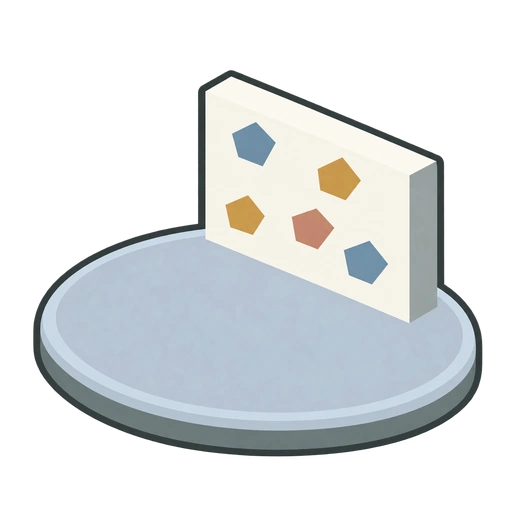
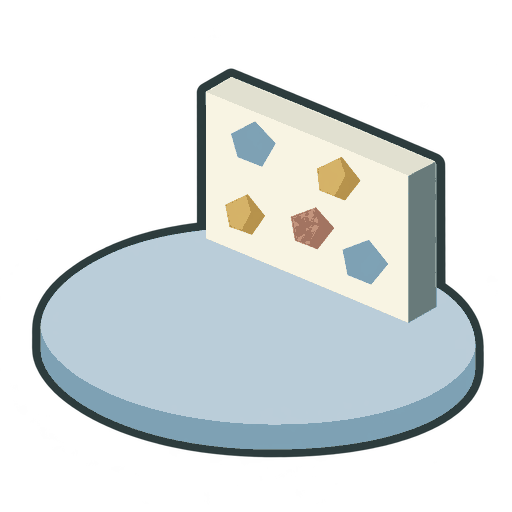
Flatten map artwork to light-dark palette pairs and outline white stage numbers

diff --git a/js/map-art.js b/js/map-art.js
@@ -1,6 +1,7 @@
 "use strict";
 // Approved raster artwork; mirror the art only, keeping the live stage number upright.
-const MAP_ICON_ASSETS={"active-100":{"width":512,"height":512,"renderWidth":73.306,"renderHeight":73.306,"left":-5.011,"top":-15.209},"active-125":{"width":512,"height":512,"renderWidth":72.98,"renderHeight":72.98,"left":-4.704,"top":-18.624},"active-150":{"width":512,"height":512,"renderWidth":76.028,"renderHeight":76.028,"left":-6.088,"top":-23.572},"cleared-100":{"width":512,"height":512,"renderWidth":73.143,"renderHeight":73.143,"left":-4.857,"top":-15.206},"cleared-125":{"width":512,"height":512,"renderWidth":74.642,"renderHeight":74.642,"left":-5.54,"top":-21.355},"unplayed-100":{"width":512,"height":512,"renderWidth":72.98,"renderHeight":72.98,"left":-4.704,"top":-14.918},"unplayed-125":{"width":512,"height":512,"renderWidth":74.813,"renderHeight":74.813,"left":-5.553,"top":-20.349},"unplayed-150":{"width":512,"height":512,"renderWidth":76.92,"renderHeight":76.92,"left":-6.61,"top":-24.737},"cleared-150":{"width":512,"height":512,"renderWidth":77.649,"renderHeight":77.649,"left":-7.28,"top":-23.929}};
+const MAP_ART_VERSION='two-tone-v1';
+const MAP_ICON_ASSETS={"active-100":{"width":512,"height":512,"renderWidth":72.818,"renderHeight":72.818,"left":-4.693,"top":-14.916},"active-125":{"width":512,"height":512,"renderWidth":72.656,"renderHeight":72.656,"left":-4.541,"top":-18.603},"active-150":{"width":512,"height":512,"renderWidth":75.502,"renderHeight":75.502,"left":-5.751,"top":-23.358},"cleared-100":{"width":512,"height":512,"renderWidth":72.496,"renderHeight":72.496,"left":-4.531,"top":-14.77},"cleared-125":{"width":512,"height":512,"renderWidth":74.136,"renderHeight":74.136,"left":-5.213,"top":-21.015},"cleared-150":{"width":512,"height":512,"renderWidth":77.283,"renderHeight":77.283,"left":-7.094,"top":-24.033},"unplayed-100":{"width":512,"height":512,"renderWidth":72.496,"renderHeight":72.496,"left":-4.531,"top":-14.628},"unplayed-125":{"width":512,"height":512,"renderWidth":74.473,"renderHeight":74.473,"left":-5.382,"top":-20.32},"unplayed-150":{"width":512,"height":512,"renderWidth":76.561,"renderHeight":76.561,"left":-6.28,"top":-24.238}};
 function mapStageVariant(n) {
     const index=(n-1)%6;
     return {height:['100','125','150'][Math.floor(index/2)],mirrored:index%2===1};
@@ -11,7 +12,7 @@ function mapWallMarkup(n,status='active') {
     if(!asset)return '';
     return `<span class="map-wall" data-variant="${variant.height}-${variant.mirrored?'right':'left'}" data-status="${status}" aria-hidden="true">
         <span class="map-icon-art"${variant.mirrored?' style="transform:scaleX(-1)"':''}>
-            <img class="map-icon-image" src="assets/stage-icons/${key}.webp" alt="" draggable="false" width="${asset.width}" height="${asset.height}" style="width:${asset.renderWidth}px;height:${asset.renderHeight}px;left:${asset.left}px;top:${asset.top}px">
+            <img class="map-icon-image" src="assets/stage-icons/${key}.webp?v=${MAP_ART_VERSION}" alt="" draggable="false" width="${asset.width}" height="${asset.height}" style="width:${asset.renderWidth}px;height:${asset.renderHeight}px;left:${asset.left}px;top:${asset.top}px">
         </span>
         <span class="map-node-number" style="font-size:${n<1000?18:14}px">${n}</span>
     </span>`;
@@ -37,7 +38,7 @@ function mapSceneryMarkup() {
     const width=ui.mapTrack.clientWidth||400;
     const imageHeight=width*MAP_IMAGE_HEIGHT/MAP_IMAGE_WIDTH;
     // Extend the image edges behind controls without duplicating stage clearings.
-    return `<defs><image id="map-artwork" href="assets/stage-map.webp" x="0" y="0" width="400" height="${imageHeight}" preserveAspectRatio="none"/></defs>
+    return `<defs><image id="map-artwork" href="assets/stage-map.webp?v=${MAP_ART_VERSION}" x="0" y="0" width="400" height="${imageHeight}" preserveAspectRatio="none"/></defs>
         <use href="#map-artwork" transform="translate(0 ${MAP_EDGE_SPACE}) scale(1 -4)"/>
         <use href="#map-artwork" transform="translate(0 ${MAP_EDGE_SPACE+imageHeight*2}) scale(1 -1)"/>
         <use href="#map-artwork" transform="translate(0 ${MAP_EDGE_SPACE})"/>`;

diff --git a/styles.css b/styles.css
@@ -127,7 +127,7 @@ button:disabled { opacity: .45; cursor: default; }
 .map-wall { position:absolute; inset:0; display:block; width:64px; height:72px; pointer-events:none; }
 .map-icon-art { position:absolute; inset:0; transform-origin:50% 50%; }
 .map-icon-image { position:absolute; max-width:none; object-fit:fill; }
-.map-wall .map-node-number { position:absolute; left:50%; top:50%; transform:translate(-50%,-50%); color:#294339; font-weight:800; line-height:1; letter-spacing:0; text-shadow:0 1px 1px #ffffff50; }
+.map-wall .map-node-number { position:absolute; left:50%; top:50%; transform:translate(-50%,-50%); color:#fff; -webkit-text-stroke:2px #000; paint-order:stroke fill; font-weight:800; line-height:1; letter-spacing:0; text-shadow:none; }
 .map-node small { display:none; position:absolute; top:64px; left:0; right:0; font-size:9px; line-height:12px; color:#475e52; }
 .map-node:disabled { opacity:1; }
 .map-node:disabled:hover { filter:none; }

diff --git a/assets/stage-icons/README.md b/assets/stage-icons/README.md
@@ -5,10 +5,18 @@ The approved rounded-mat climbing icon is supplied as transparent WebP artwork.
 - `active-*`: gold mat; `cleared-*`: sage mat; `unplayed-*`: gray-blue mat.
 - Suffixes `100`, `125`, `150` identify wall height variants.
 - The six forms combine these three heights with CSS horizontal mirroring.
-- Stage numbers are upright DOM text, outside the mirrored artwork.
+- Stage numbers are upright white DOM text with a black outline, outside the mirrored artwork.
 - Image placement uses alpha bounds to align mat size and floor position across variants.
 
 Created with the built-in image generation tool from the approved icon. Prompt set:
 preserve the elliptical padded mat, rearward wall base, five holds and exterior-only
 outline; change only wall height (1 / 1.25 / 1.5) and mat palette (gold / sage / gray-blue),
 with a transparent background and no numbers. Mirroring is performed at display time.
+
+Shading revision: each base material uses a light/dark pair of flat colors, without
+gradients or texture. Geometry, six variants and progress palettes are retained.
+
+The final exports use the explicit light/dark pairs in `palette.json` and lossless
+WebP compression. Intermediate texture colors are removed at export; transparent
+edge alpha remains available for smooth compositing. The map uses the background
+palette in the same file. Asset URLs include a revision to refresh older cached art.
